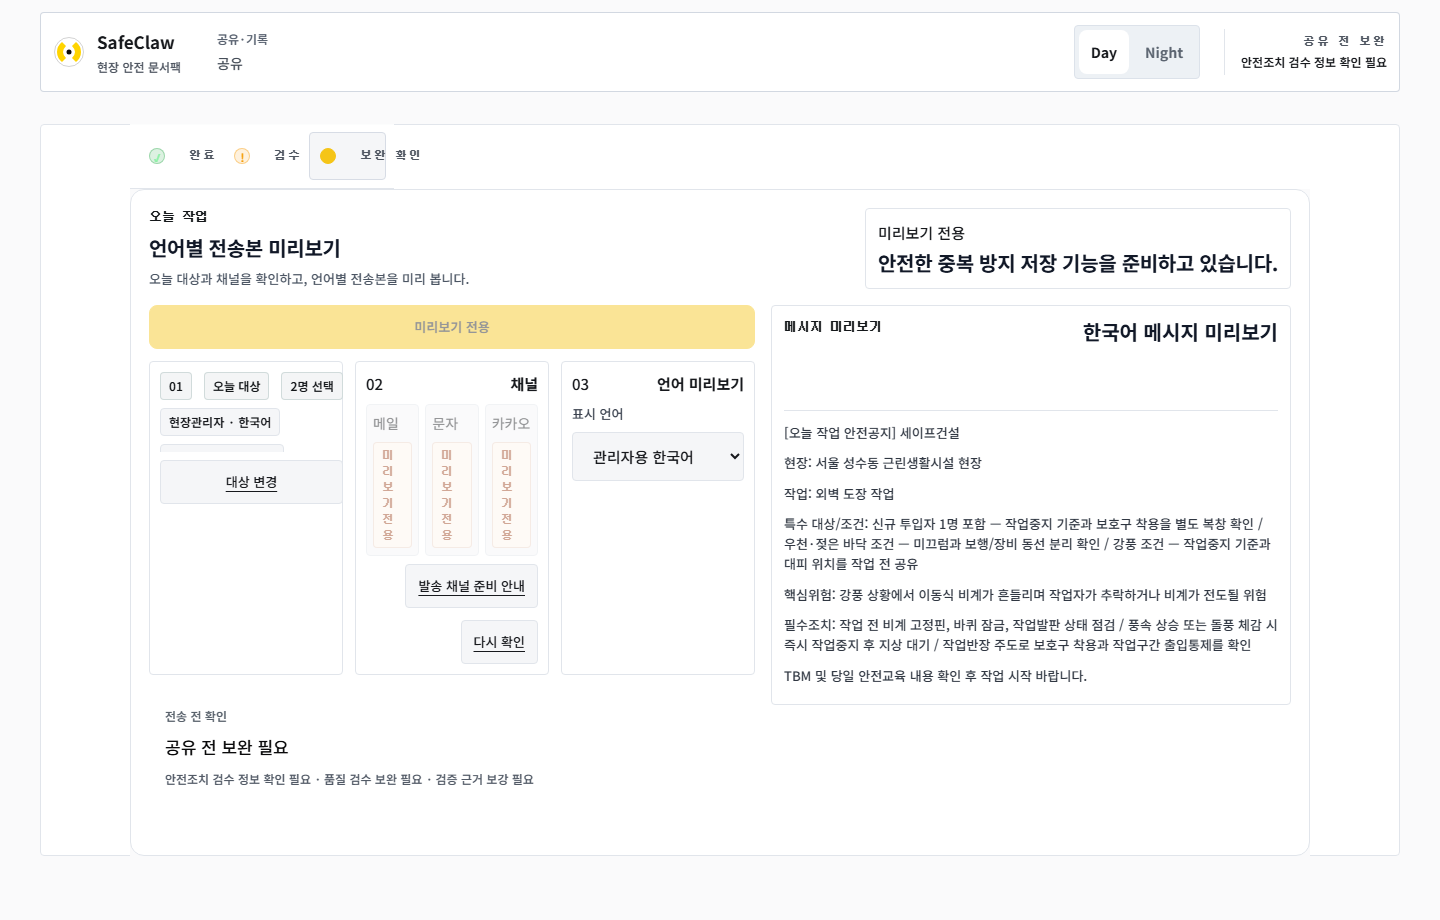
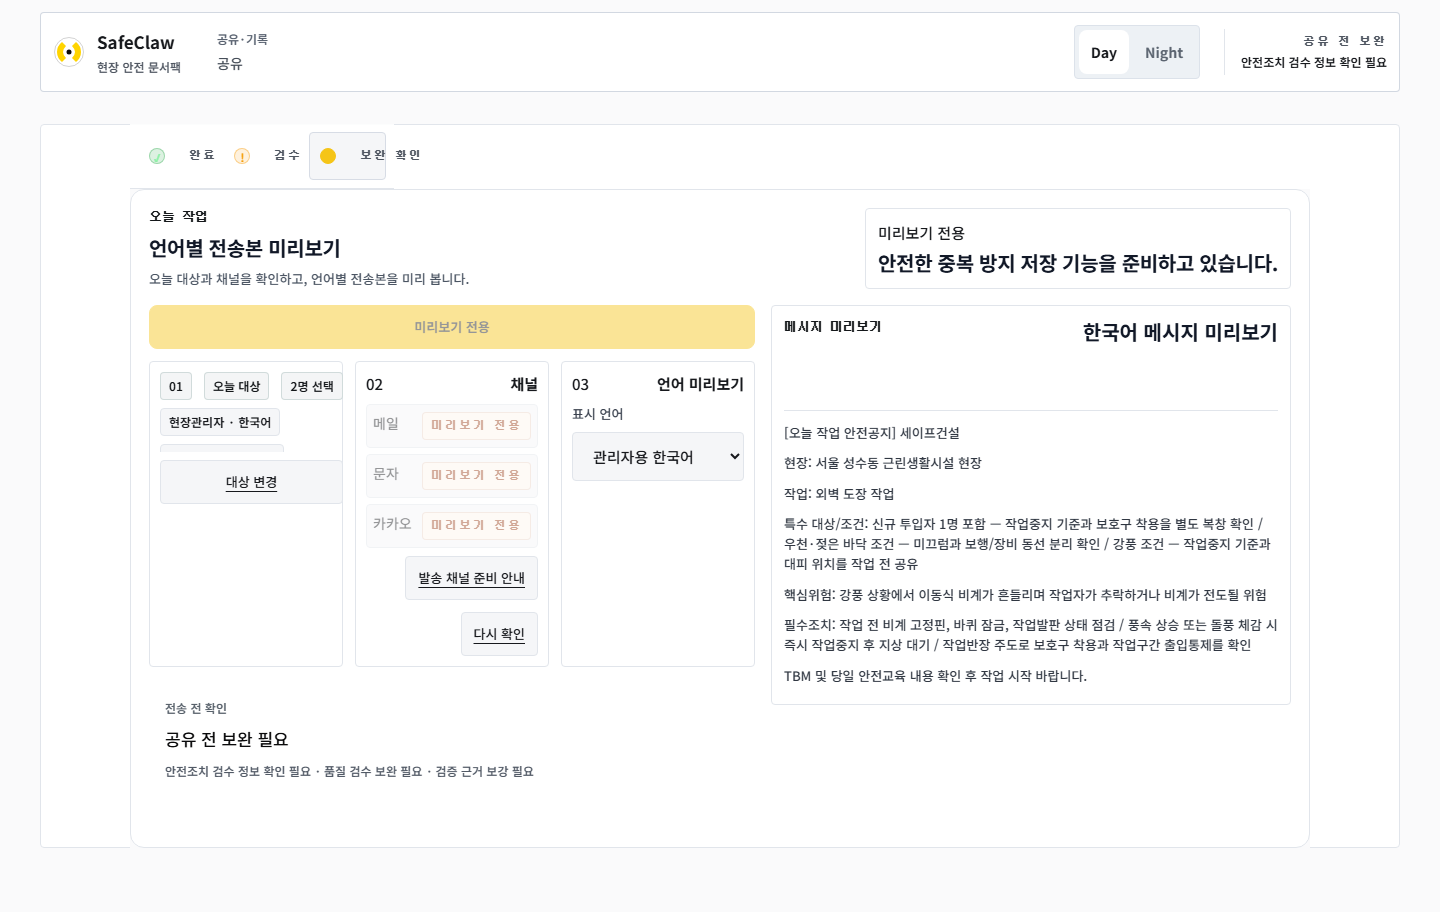
chore: record production share collapse evidence

diff --git a/evaluation/share-mobile-full-flow-2026-07-21/report.md b/evaluation/share-mobile-full-flow-2026-07-21/report.md
@@ -46,6 +46,31 @@ Mobile 390x844 Night:
 - `configCards.display = ["none", "none", "none"]`
 - `overflowX = 0`
 
+## Production Verification
+
+Production `https://www.safeclaw.kr`, build marker `560dc6ad50aad22c89f7a7f7b56f3ac1b67d95f2`, checked after deploy:
+
+- Artifact: `evaluation/workspace-docs-share-production-gate-2026-07-20/current-geometry.json`
+- Mobile 390x844 `/workspace` Share:
+  - `shareBody = 993`
+  - `shareMobileSummary.bottom = 432`
+  - `sharePreview.bottom = 659`
+  - `primaryShareCta.bottom = 720`
+  - `shareForm.bottom = 729`
+  - `shareTargetCard = 0x0`
+  - `shareChannelCard = 0x0`
+  - `shareLanguageCard = 0x0`
+  - `overflowX = false`
+  - `outside = 0`
+- Desktop-short 1440x723 `/workspace` Share:
+  - `shareBody = 912`
+  - `shareForm.bottom = 667`
+  - `sharePreview.bottom = 705`
+  - `primaryShareCta.bottom = 349`
+  - `previewRightOfPrimary = true`
+  - `overflowX = false`
+  - `outside = 0`
+
 ## Desktop Preservation
 
 Workspace share desktop 1440x900 Day:
